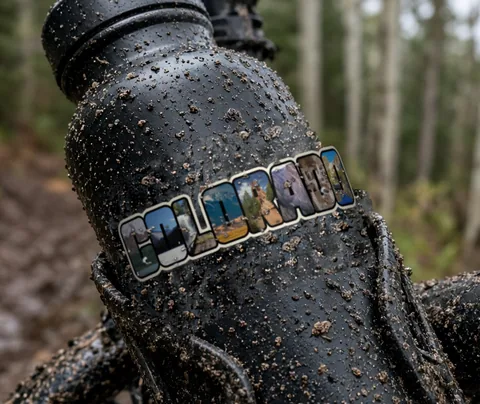
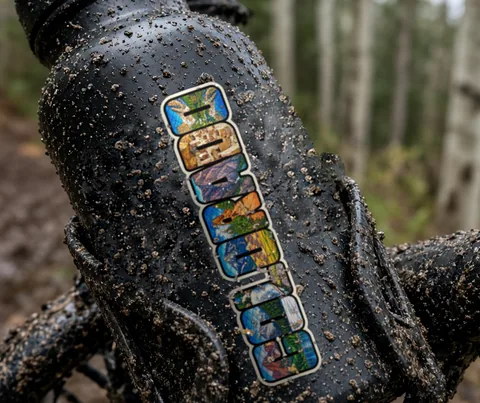
Craft photo v2: Colorado stained-glass sticker wrapped vertically along the muddy bottle; caption to top for this card

diff --git a/index.html b/index.html
@@ -161,8 +161,8 @@
     <section class="section craft" id="craft">
       <div class="wrap craft-grid">
         <figure class="craft-art is-photo reveal">
-          <img src="/photos/colorado-bottle-mud.webp" srcset="/photos/colorado-bottle-mud-480.webp 480w, /photos/colorado-bottle-mud.webp 760w" sizes="(max-width: 900px) 92vw, 46vw" width="760" height="640" loading="lazy" decoding="async" alt="Our Colorado photo-style sticker on a mud-splattered black water bottle in a mountain bike's bottle cage, on a wet aspen trail" />
-          <figcaption>Colorado, photo style &mdash; on a bottle cage after a wet ride through the aspens.</figcaption>
+          <img src="/photos/colorado-bottle-mud.webp" srcset="/photos/colorado-bottle-mud-480.webp 480w, /photos/colorado-bottle-mud.webp 762w" sizes="(max-width: 900px) 92vw, 46vw" width="762" height="640" loading="lazy" decoding="async" alt="Our Colorado stained-glass sticker running vertically along a mud-splattered black water bottle in a mountain bike's bottle cage, on a wet aspen trail" />
+          <figcaption>Colorado, stained glass &mdash; on a bottle cage after a wet ride through the aspens.</figcaption>
         </figure>
 
         <div class="craft-copy reveal">

diff --git a/src/home.css b/src/home.css
@@ -452,3 +452,13 @@
   .showcase-plate.is-floating { animation: none; }
   .showcase-layer, .showcase-layer.is-out { transform: none; filter: var(--shadow); transition: opacity .4s linear; }
 }
+
+/* The vertical bottle sticker runs nearly the full photo height, so the caption sits on top here */
+.craft-art.is-photo figcaption {
+  top: 0; bottom: auto;
+  padding: 18px 22px 44px;
+  background: linear-gradient(to bottom,
+    rgba(12, 21, 16, .9) 0%,
+    rgba(12, 21, 16, .7) 55%,
+    transparent 100%);
+}
